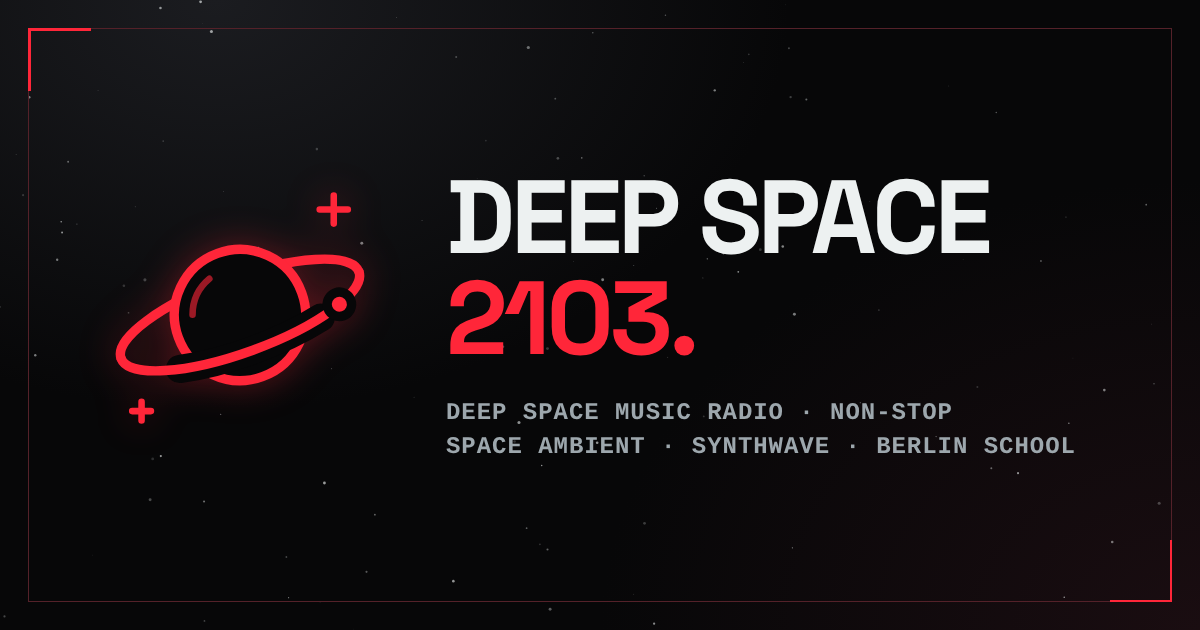
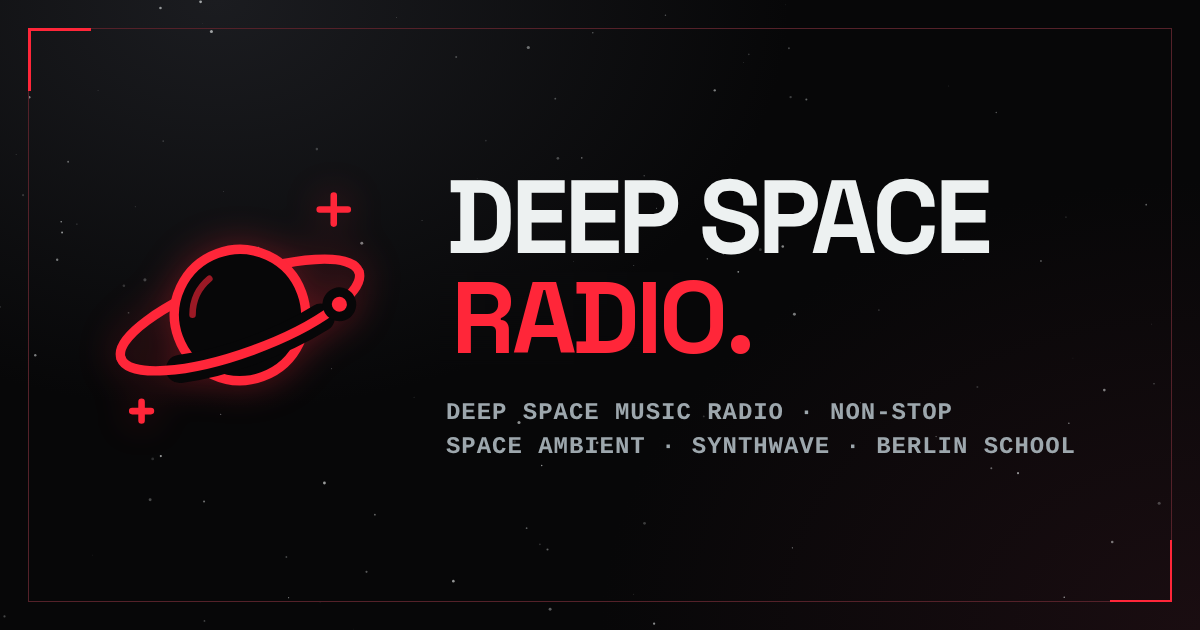
Rename Deep Space 2103 to Deep Space Radio
Updates the page title, heading, meta and structured data, the web app
manifest, logo label, download credits, README and the social card image.
The old name stays as an alternateName so existing searches still match.

Claude-Session: https://claude.ai/code/session_01BFBYoEAfLXGd7ihn3DksEg

Changed region(s): [[0.37, 0.4222, 0.6475, 0.573]]

diff --git a/index.html b/index.html
@@ -1,17 +1,17 @@
 <!doctype html>
 <html lang="en-GB"><head><meta charset="utf-8"><meta name="viewport" content="width=device-width,initial-scale=1">
-<meta name="theme-color" content="#070708"><meta name="description" content="Deep Space 2103 is a free, non-stop deep space music radio station: space ambient, synthwave and Berlin School. Every album is Creative Commons and free to download.">
-<title>Deep Space 2103 | Free Deep Space Music Radio, Non-Stop</title><link rel="canonical" href="https://johnnymandious.github.io/radio/">
+<meta name="theme-color" content="#070708"><meta name="description" content="Deep Space Radio is a free, non-stop deep space music radio station: space ambient, synthwave and Berlin School. Every album is Creative Commons and free to download.">
+<title>Deep Space Radio | Free Deep Space Music Radio, Non-Stop</title><link rel="canonical" href="https://johnnymandious.github.io/radio/">
 <link rel="icon" href="assets/radio/brand/favicon.svg" type="image/svg+xml"><link rel="icon" href="assets/radio/brand/icon-192.png" type="image/png" sizes="192x192"><link rel="apple-touch-icon" href="assets/radio/brand/apple-touch-icon.png"><link rel="manifest" href="site.webmanifest"><link rel="preload" href="https://johnnymandious.com/fonts/space-grotesk-400.woff2" as="font" type="font/woff2" crossorigin><link rel="stylesheet" href="https://johnnymandious.com/journal.css?v=22"><link rel="stylesheet" href="radio.css?v=3"><link rel="alternate" type="application/rss+xml" title="Johnny Mandious" href="https://johnnymandious.com/feed.xml">
 <link rel="preload" href="assets/radio/albums.json" as="fetch" crossorigin>
 <meta name="robots" content="index,follow,max-image-preview:large">
-<meta property="og:type" content="website"><meta property="og:site_name" content="Deep Space 2103"><meta property="og:locale" content="en_GB">
-<meta property="og:title" content="Deep Space 2103 | Free Deep Space Music Radio, Non-Stop"><meta property="og:description" content="Deep Space 2103 is a free, non-stop deep space music radio station: space ambient, synthwave and Berlin School. Every album is Creative Commons and free to download."><meta property="og:url" content="https://johnnymandious.github.io/radio/"><meta property="og:image" content="https://johnnymandious.github.io/radio/assets/radio/brand/social-card.png"><meta property="og:image:width" content="1200"><meta property="og:image:height" content="630"><meta property="og:image:alt" content="Deep Space 2103 logo, a red ringed planet, beside the words Deep Space Music Radio">
-<meta name="twitter:card" content="summary_large_image"><meta name="twitter:site" content="@johnnymandious"><meta name="twitter:creator" content="@johnnymandious"><meta name="twitter:title" content="Deep Space 2103 | Free Deep Space Music Radio, Non-Stop"><meta name="twitter:description" content="Deep Space 2103 is a free, non-stop deep space music radio station: space ambient, synthwave and Berlin School. Every album is Creative Commons and free to download."><meta name="twitter:image" content="https://johnnymandious.github.io/radio/assets/radio/brand/social-card.png"><meta name="twitter:image:alt" content="Deep Space 2103 logo, a red ringed planet, beside the words Deep Space Music Radio">
-<script type="application/ld+json">{"@context": "https://schema.org", "@graph": [{"@type": "WebSite", "@id": "https://johnnymandious.github.io/radio/#website", "name": "Deep Space 2103", "alternateName": ["Deep Space 2103 Radio", "Mandious Deep Space"], "url": "https://johnnymandious.github.io/radio/", "publisher": {"@type": "Person", "name": "Johnny Mandious", "url": "https://johnnymandious.com/"}}, {"@type": "WebPage", "@id": "https://johnnymandious.github.io/radio/#webpage", "name": "Deep Space 2103 | Free Deep Space Music Radio, Non-Stop", "description": "Deep Space 2103 is a free, non-stop deep space music radio station: space ambient, synthwave and Berlin School. Every album is Creative Commons and free to download.", "url": "https://johnnymandious.github.io/radio/", "inLanguage": "en-GB", "isPartOf": {"@id": "https://johnnymandious.github.io/radio/#website"}, "primaryImageOfPage": {"@type": "ImageObject", "url": "https://johnnymandious.github.io/radio/assets/radio/brand/social-card.png", "width": 1200, "height": 630}, "about": [{"@type": "Thing", "name": "Space music"}, {"@type": "Thing", "name": "Ambient music"}, {"@type": "Thing", "name": "Synthwave"}, {"@type": "Thing", "name": "Berlin School of electronic music"}]}, {"@type": "BroadcastService", "@id": "https://johnnymandious.github.io/radio/#station", "name": "Deep Space 2103", "broadcastDisplayName": "Deep Space 2103", "description": "A non-stop online radio station of deep space music: space ambient, synthwave and Berlin School, all under Creative Commons licences.", "url": "https://johnnymandious.github.io/radio/", "logo": "https://johnnymandious.github.io/radio/assets/radio/brand/icon-512.png", "genre": ["Space music", "Ambient", "Synthwave", "Berlin School"], "inLanguage": "en", "isAccessibleForFree": true, "provider": {"@type": "Person", "name": "Johnny Mandious", "url": "https://johnnymandious.com/"}}]}</script></head><body><a class="skip-link" href="#main">Skip to content</a><header class="site-header"><a class="brand" href="https://johnnymandious.com/" aria-label="Johnny Mandious home">
+<meta property="og:type" content="website"><meta property="og:site_name" content="Deep Space Radio"><meta property="og:locale" content="en_GB">
+<meta property="og:title" content="Deep Space Radio | Free Deep Space Music Radio, Non-Stop"><meta property="og:description" content="Deep Space Radio is a free, non-stop deep space music radio station: space ambient, synthwave and Berlin School. Every album is Creative Commons and free to download."><meta property="og:url" content="https://johnnymandious.github.io/radio/"><meta property="og:image" content="https://johnnymandious.github.io/radio/assets/radio/brand/social-card.png"><meta property="og:image:width" content="1200"><meta property="og:image:height" content="630"><meta property="og:image:alt" content="Deep Space Radio logo, a red ringed planet, beside the words Deep Space Music Radio">
+<meta name="twitter:card" content="summary_large_image"><meta name="twitter:site" content="@johnnymandious"><meta name="twitter:creator" content="@johnnymandious"><meta name="twitter:title" content="Deep Space Radio | Free Deep Space Music Radio, Non-Stop"><meta name="twitter:description" content="Deep Space Radio is a free, non-stop deep space music radio station: space ambient, synthwave and Berlin School. Every album is Creative Commons and free to download."><meta name="twitter:image" content="https://johnnymandious.github.io/radio/assets/radio/brand/social-card.png"><meta name="twitter:image:alt" content="Deep Space Radio logo, a red ringed planet, beside the words Deep Space Music Radio">
+<script type="application/ld+json">{"@context": "https://schema.org", "@graph": [{"@type": "WebSite", "@id": "https://johnnymandious.github.io/radio/#website", "name": "Deep Space Radio", "alternateName": ["Deep Space 2103", "Mandious Deep Space"], "url": "https://johnnymandious.github.io/radio/", "publisher": {"@type": "Person", "name": "Johnny Mandious", "url": "https://johnnymandious.com/"}}, {"@type": "WebPage", "@id": "https://johnnymandious.github.io/radio/#webpage", "name": "Deep Space Radio | Free Deep Space Music Radio, Non-Stop", "description": "Deep Space Radio is a free, non-stop deep space music radio station: space ambient, synthwave and Berlin School. Every album is Creative Commons and free to download.", "url": "https://johnnymandious.github.io/radio/", "inLanguage": "en-GB", "isPartOf": {"@id": "https://johnnymandious.github.io/radio/#website"}, "primaryImageOfPage": {"@type": "ImageObject", "url": "https://johnnymandious.github.io/radio/assets/radio/brand/social-card.png", "width": 1200, "height": 630}, "about": [{"@type": "Thing", "name": "Space music"}, {"@type": "Thing", "name": "Ambient music"}, {"@type": "Thing", "name": "Synthwave"}, {"@type": "Thing", "name": "Berlin School of electronic music"}]}, {"@type": "BroadcastService", "@id": "https://johnnymandious.github.io/radio/#station", "name": "Deep Space Radio", "broadcastDisplayName": "Deep Space Radio", "description": "A non-stop online radio station of deep space music: space ambient, synthwave and Berlin School, all under Creative Commons licences.", "url": "https://johnnymandious.github.io/radio/", "logo": "https://johnnymandious.github.io/radio/assets/radio/brand/icon-512.png", "genre": ["Space music", "Ambient", "Synthwave", "Berlin School"], "inLanguage": "en", "isAccessibleForFree": true, "provider": {"@type": "Person", "name": "Johnny Mandious", "url": "https://johnnymandious.com/"}}]}</script></head><body><a class="skip-link" href="#main">Skip to content</a><header class="site-header"><a class="brand" href="https://johnnymandious.com/" aria-label="Johnny Mandious home">
       <svg viewBox="0 0 48 48" aria-hidden="true"><path d="M24 4 44 40H4Z M24 16 34 34H14Z M24 26V4 M24 26 4 40 M24 26 44 40"/></svg>
       <span>JOHNNY<span class="red">MANDIOUS</span></span>
-    </a><nav aria-label="Main navigation"><a href="https://johnnymandious.com/">Art</a><a href="https://johnnymandious.com/blog.html">AI Blog</a><a href="https://johnnymandious.com/longevity.html">Longevity</a><a href="https://johnnymandious.github.io/radio/" aria-current="page">Radio</a><a href="https://johnnymandious.com/about.html">About</a></nav></header><main id="main" tabindex="-1"><section class="page-heading radio-heading"><img class="radio-logo" src="assets/radio/brand/logo.svg" alt="" width="64" height="64"><div><p class="eyebrow">Deep space music radio · Broadcasting from 2103</p><h1>DEEP SPACE <em>2103.</em></h1><p>Deep space music, playing non-stop: space ambient, synthwave and Berlin School. Every album is free to stream and download under Creative Commons.</p></div></section>
+    </a><nav aria-label="Main navigation"><a href="https://johnnymandious.com/">Art</a><a href="https://johnnymandious.com/blog.html">AI Blog</a><a href="https://johnnymandious.com/longevity.html">Longevity</a><a href="https://johnnymandious.github.io/radio/" aria-current="page">Radio</a><a href="https://johnnymandious.com/about.html">About</a></nav></header><main id="main" tabindex="-1"><section class="page-heading radio-heading"><img class="radio-logo" src="assets/radio/brand/logo.svg" alt="" width="64" height="64"><div><p class="eyebrow">Deep space music radio · Broadcasting from 2103</p><h1>DEEP SPACE <em>RADIO.</em></h1><p>Deep space music, playing non-stop: space ambient, synthwave and Berlin School. Every album is free to stream and download under Creative Commons.</p></div></section>
 
 <section class="radio-player panel" aria-label="Radio player">
   <div class="radio-cover"><img id="np-cover" src="assets/radio/covers/exalot-cosmic-voyager.jpg" alt="" width="500" height="500"></div>
@@ -50,11 +50,11 @@
 <noscript><p class="radio-noscript panel">The radio needs JavaScript. The full album list, with sources and licences, is in <a class="text-link" href="assets/radio/albums.json">albums.json</a>.</p></noscript>
 
 <section class="section-divider radio-about" aria-labelledby="about-heading">
-  <div class="section-heading"><p class="eyebrow">About the station</p><h2 id="about-heading">WHAT IS <em>DEEP SPACE 2103?</em></h2></div>
+  <div class="section-heading"><p class="eyebrow">About the station</p><h2 id="about-heading">WHAT IS <em>DEEP SPACE RADIO?</em></h2></div>
   <div class="radio-about-grid">
     <div>
       <h3>Deep space music, all day</h3>
-      <p>Deep Space 2103 is a free online radio station for deep space music. It plays slow, cosmic electronic albums one after another without stopping: long ambient drones, sequencer-driven Berlin School in the style of the 1970s German synth pioneers, and retro-futurist synthwave. Press play and leave it on for sleep, study, focus, reading or just staring at the stars.</p>
+      <p>Deep Space Radio is a free online radio station for deep space music. It plays slow, cosmic electronic albums one after another without stopping: long ambient drones, sequencer-driven Berlin School in the style of the 1970s German synth pioneers, and retro-futurist synthwave. Press play and leave it on for sleep, study, focus, reading or just staring at the stars.</p>
     </div>
     <div>
       <h3>Free and Creative Commons</h3>

diff --git a/radio.js b/radio.js
@@ -176,7 +176,7 @@
     ui.seek.value = 0;
     ui.time.textContent = '0:00';
     ui.length.textContent = track.duration;
-    document.title = `${track.title} · ${album.artist} | Deep Space 2103`;
+    document.title = `${track.title} · ${album.artist} | Deep Space Radio`;
     document.querySelectorAll('.is-current').forEach(el => el.classList.remove('is-current'));
     document.getElementById('album-' + album.id)?.classList.add('is-current');
     document.querySelector(`[data-track="${CSS.escape(t.key)}"]`)?.classList.add('is-current');
@@ -276,7 +276,7 @@
       textFrame('TCOP', `${t.album.year ? t.album.year + ' ' : ''}${t.album.artist}. Licensed under ${l.name}: ${l.url}`),
       urlFrame('WCOP', l.url),
       urlFrame('WOAS', sourceOf(t)),
-      commentFrame(`${creditLine(t)}. Downloaded from Deep Space 2103, ${SITE}`)
+      commentFrame(`${creditLine(t)}. Downloaded from Deep Space Radio, ${SITE}`)
     ];
     if (t.album.year) frames.push(textFrame('TYER', String(t.album.year)));
     if (t.album.label) frames.push(textFrame('TPUB', t.album.label));
@@ -300,7 +300,7 @@
       if (onlyTrack && onlyTrack !== track) return;
       lines.push(`${String(i + 1).padStart(2, '0')}. ${track.title} (${track.duration})${track.licence ? ` [${track.licence.name}: ${track.licence.url}]` : ''}`);
     });
-    lines.push('', `This music is by ${album.artist}, not Johnny Mandious. You can share it under the licence above; credit the artist and link the licence.`, `Downloaded from Deep Space 2103, ${SITE}`, '');
+    lines.push('', `This music is by ${album.artist}, not Johnny Mandious. You can share it under the licence above; credit the artist and link the licence.`, `Downloaded from Deep Space Radio, ${SITE}`, '');
     return lines.join('\r\n');
   }
   const safeName = s => s.replace(/[\\/:*?"<>|\u0000-\u001f]+/g, ' ').replace(/\s+/g, ' ').trim().slice(0, 120);

diff --git a/README.md b/README.md
@@ -1,4 +1,4 @@
-# Deep Space 2103
+# Deep Space Radio
 
 The source for [the radio](https://johnnymandious.github.io/radio/): a non-stop deep space music station of space ambient, synthwave and Berlin School albums, all under Creative Commons licences. It is plain static HTML, CSS and JavaScript with no build step. The workflow in `.github/workflows/static.yml` publishes it to GitHub Pages whenever `main` changes.
 
@@ -13,7 +13,7 @@ It lives in its own repository, separate from [johnnymandious.com](https://johnn
 | `radio.css` | Radio styles. The page also loads `journal.css` and the fonts from johnnymandious.com, so it always matches the main site |
 | `assets/radio/albums.json` | The album list. This is the only file you need to edit to change what plays |
 | `assets/radio/covers/` | Album covers |
-| `assets/radio/brand/` | The Deep Space 2103 logo (`logo.svg`), favicon, app icons and the 1200×630 social card used when the link is shared |
+| `assets/radio/brand/` | The Deep Space Radio logo (`logo.svg`), favicon, app icons and the 1200×630 social card used when the link is shared |
 | `site.webmanifest` | Name and icons for when someone adds the radio to their phone's home screen |
 | `sitemap.xml` | Tells Google the radio page exists. Update its `lastmod` date when the page changes a lot |
 | `RADIO-LICENCE-REPORT.md` | Licence check for every album |
@@ -43,7 +43,7 @@ Optional fields are `year`, `label` and `licenceNote`. A track can override the 
 
 ## Getting found on Google
 
-The page title, description, heading and the "What is Deep Space 2103?" section all use the phrase "deep space music", which is what people search for. Keep that wording if you edit them.
+The page title, description, heading and the "What is Deep Space Radio?" section all use the phrase "deep space music", which is what people search for. Keep that wording if you edit them.
 
 To get Google to index the radio quickly:
 
